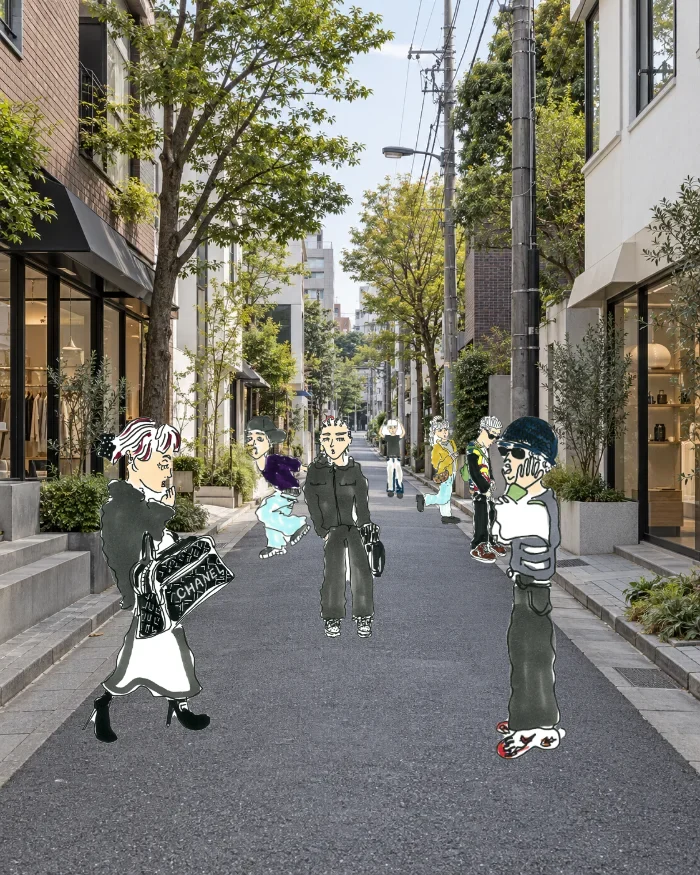
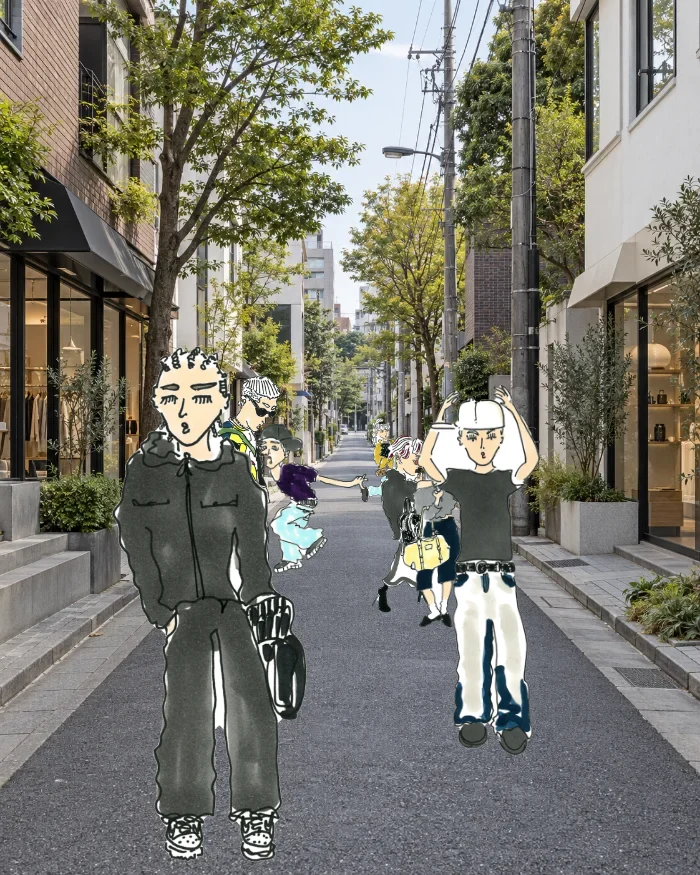
街：いただいた見本の並びに差し替える
見本（288×512）をそのまま背景には使えないので、人の位置と大きさを
読み取って元の解像度で焼き直した。並びは見本のとおり7人。
人②（紺のニット帽）は見本に入っていないので外してある。

スマホは縦が全部映るので見本のまま。横だけ、見える帯
（0.211〜0.789）の中へ写し直してある。全員ほぼ100%映る。

PCは縦が 0.250〜0.750 しか映らず、見本のままだと手前2人の脚が
切れる。並びはそのままに、目の高さを軸にして縦を 0.519 倍に縮めた。

?v=5 に上げて読み直させる。

Changed region(s): [[0.12, 0.4011, 0.81, 0.9874]]

diff --git a/index.html b/index.html
@@ -417,7 +417,7 @@ addEventListener('load',function(){ clearTimeout(t); setTimeout(go,3500); });
   var layers=[].slice.call(g.querySelectorAll('.street i'));
   var small=matchMedia('(max-width:760px)').matches;
   /* ?v は焼き直した街を確実に読ませるための番号。焼き直したら上げる */
-  function src(n){ return 'naoto-assets/street/'+n+(small?'@700w':'')+'.webp?v=4'; }
+  function src(n){ return 'naoto-assets/street/'+n+(small?'@700w':'')+'.webp?v=5'; }
   function load(i){
     var el=layers[i];
     if(!el||el.dataset.loaded) return;
